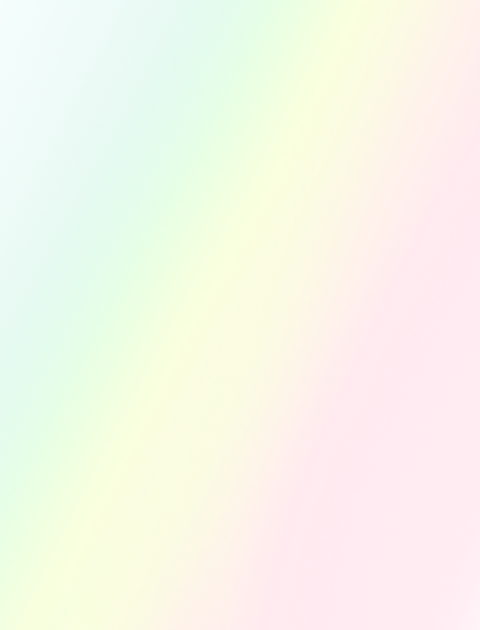
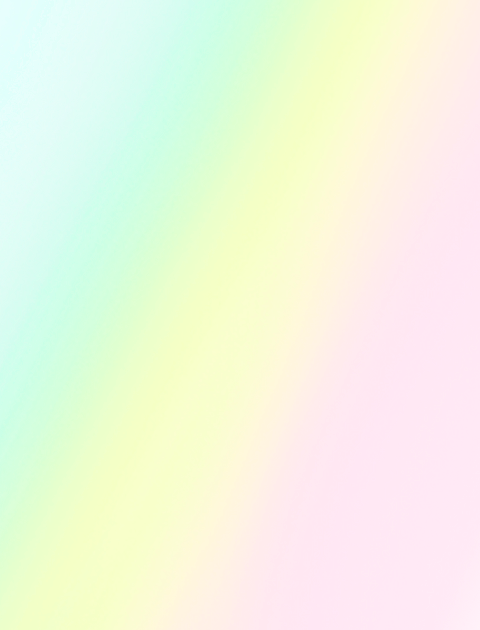
New multipled foil overlay

diff --git a/public/css/stylesheet.css b/public/css/stylesheet.css
@@ -333,7 +333,7 @@
 	pointer-events: none;
 	width: 100%;
 	height: 100%;
-	opacity: 80%;
+	mix-blend-mode: multiply;
 }
 
 #syntax-accordion .card,
